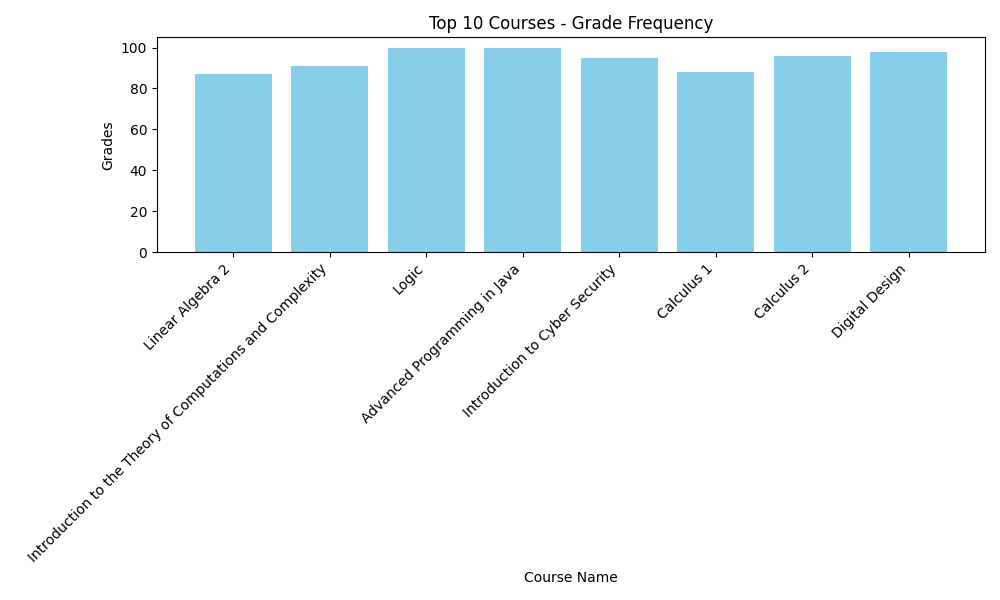
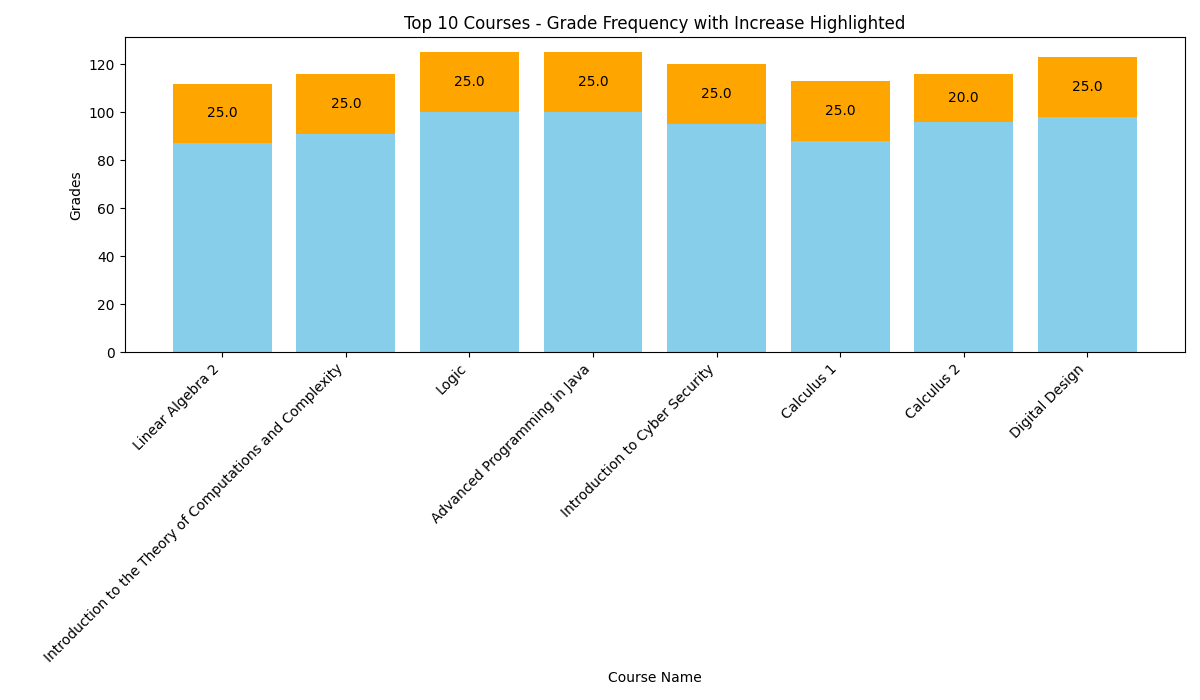
Adding visualizations to README.md

diff --git a/show_improvements.py b/show_improvements.py
@@ -4,11 +4,32 @@ import matplotlib.pyplot as plt
 # Load the CSV file and select the top 10 rows
 results_file = "outputs/improved_result.csv"
 result_df = pd.read_csv(results_file).head(10)  # Modify the number of rows as needed
+result_df = result_df.drop_duplicates(subset='course', keep='first')
 
-# Create a bar chart showing the frequency of the top grades
-plt.figure(figsize=(10, 6))
-plt.bar(result_df['course'], result_df['new_grade_needed'], color='skyblue')
-plt.title("Top 10 Courses - Grade Frequency")
+# Create a bar chart with `new_grade_needed` values
+fig, ax = plt.subplots(figsize=(12, 7))
+
+# Create the base bar for `new_grade_needed`
+bars = ax.bar(result_df['course'], result_df['new_grade_needed'], color='skyblue', label='New Grade Needed')
+
+# Overlay another bar with the top segment color for the "increase"
+for index, bar in enumerate(bars):
+    height = bar.get_height()
+    # Add the "increase" value on top of the `new_grade_needed` bar
+    ax.bar(
+        result_df['course'][index], result_df['increase'][index],
+        bottom=height, color='orange', label='Increase' if index == 0 else ""
+    )
+
+# Annotate each bar with the "increase" value
+for bar, inc in zip(bars, result_df['increase']):
+    ax.text(
+        bar.get_x() + bar.get_width() / 2, bar.get_height() + inc / 2,
+        f'{inc}', ha='center', va='center', fontsize=10, color='black'
+    )
+
+# Formatting and labels
+plt.title("Top 10 Courses - Grade Frequency with Increase Highlighted")
 plt.xlabel("Course Name")
 plt.ylabel("Grades")
 plt.xticks(rotation=45, ha='right')

diff --git a/README.md b/README.md
@@ -2,12 +2,17 @@
 This is a simple `pandas` project in python to determine how I can increase my BSc
 Average by retaking an exam, We are entitled of re-taking 3 exams without retaking the course.
 
+Ever wondered which courses are the most valuable to your average?
+
+![results](visualizations/top_10_grades.png?raw=true)
+
 The logic is to create a product between assignments weights and my grades, 
 then looping on the result dataframe to see which impact can be made.
 
 All the data is from the OpenU website, you can clone and try on your own.
 
 Output:
+
 ```console
 If you score 87.0 (25.0 more)
  in Linear Algebra 2
